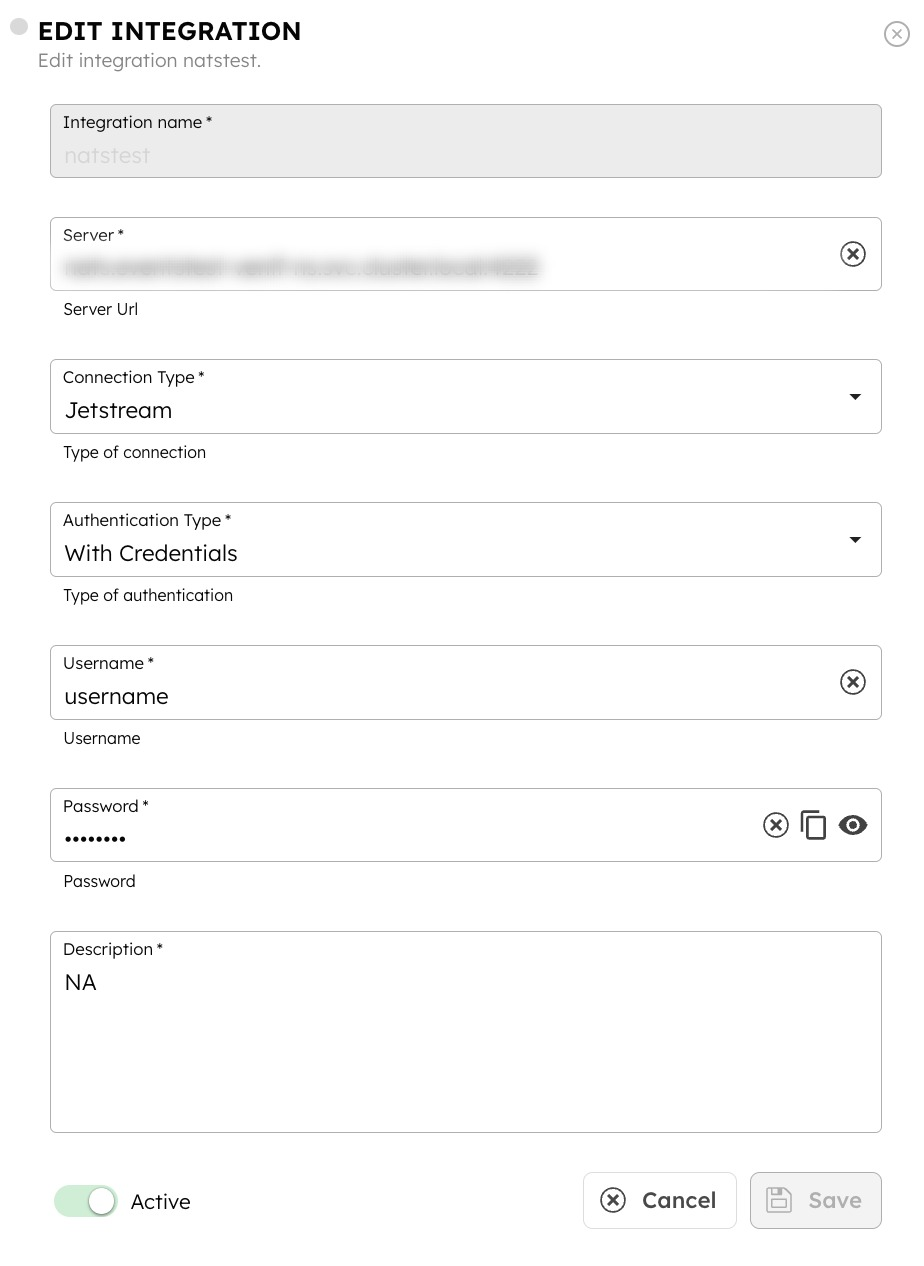
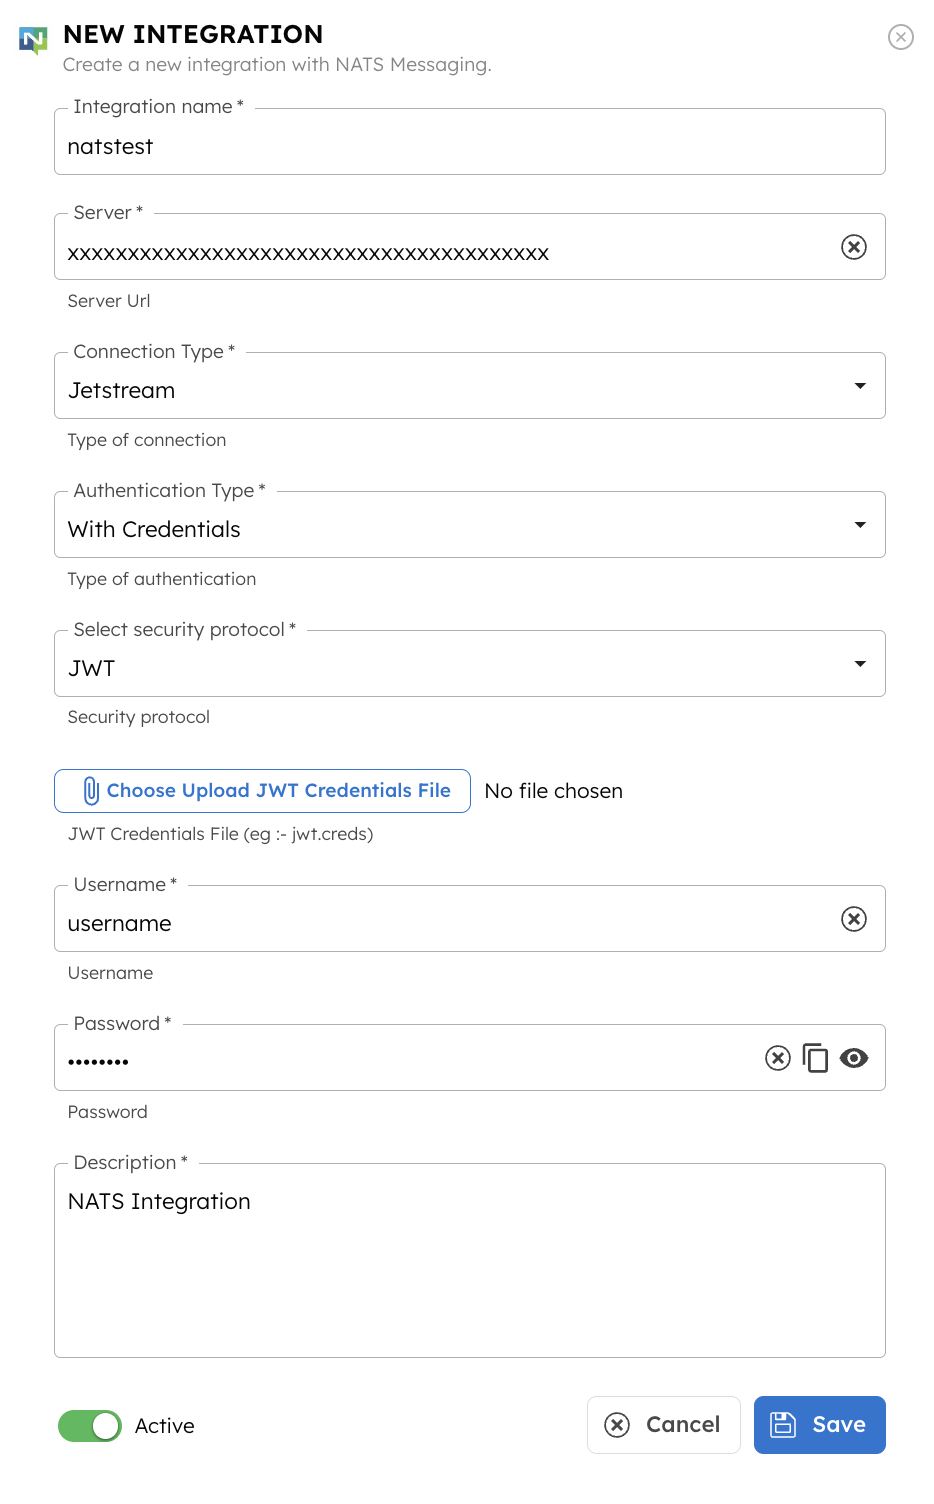
NATS - JWT using creds update

diff --git a/docs/integrations/message-broker/nats-messaging.md b/docs/integrations/message-broker/nats-messaging.md
@@ -30,8 +30,9 @@ Once you have the required configuration credentials from NATS Messaging, let’
 | Server | Provide the NATS server name to be integrated with Orkes Conductor. |
 | Connection Type | Choose the required connection type for the integration. It can take two values:<ul><li>Default</li><li>Jetstream</li></ul> | 
 | Authentication Type | Choose the required authentication type. You can opt for **_With Credentials_** or **_Without Credentials_**. |
-| Username | Provide the username for authentication. This field is required only if the **_Authentication Type_** is chosen as **_With Credentials_**. | 
-| Password | Provide the password for authentication. This field is required only if the **_Authentication Type_** is chosen as **_With Credentials_**. | 
+| Select security protocol | Choose the security protocol for authenticating the connection. It can take values:<ul><li>NONE</li><li>JWT - If JWT is opted, upload the JWT credentials file. </li></ul>This field is applicable only if the **_Authentication Type_** is chosen as **_With Credentials_**. | 
+| Username | Provide the username for authentication. This field is applicable only if the **_Authentication Type_** is chosen as **_With Credentials_**. | 
+| Password | Provide the password for authentication. This field is applicable only if the **_Authentication Type_** is chosen as **_With Credentials_**. | 
 | Description | Provide a description of the integration. | 
 
 5. You can toggle on the **Active** button to activate the integration instantly.
